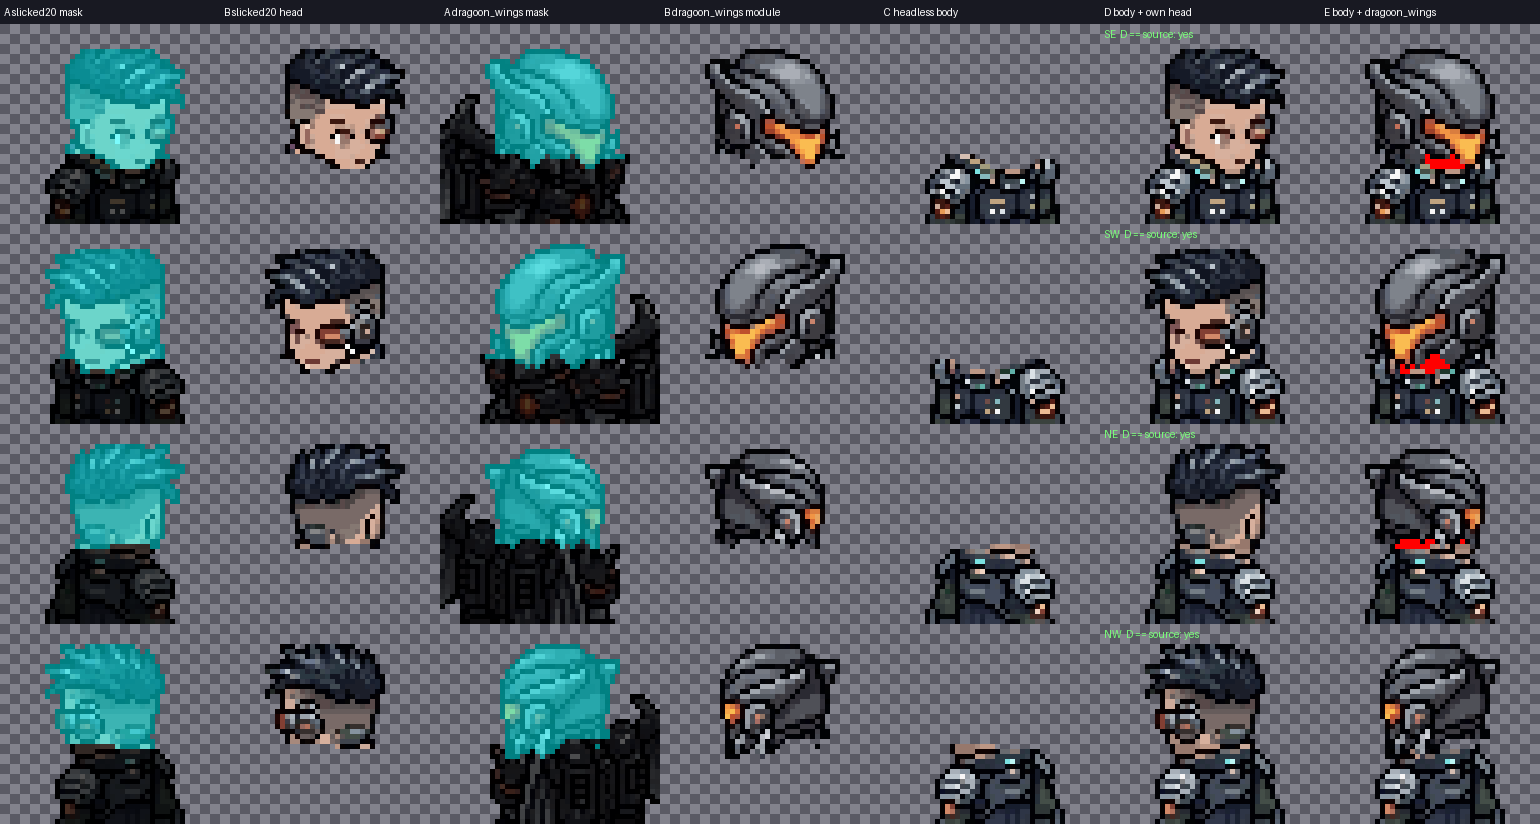
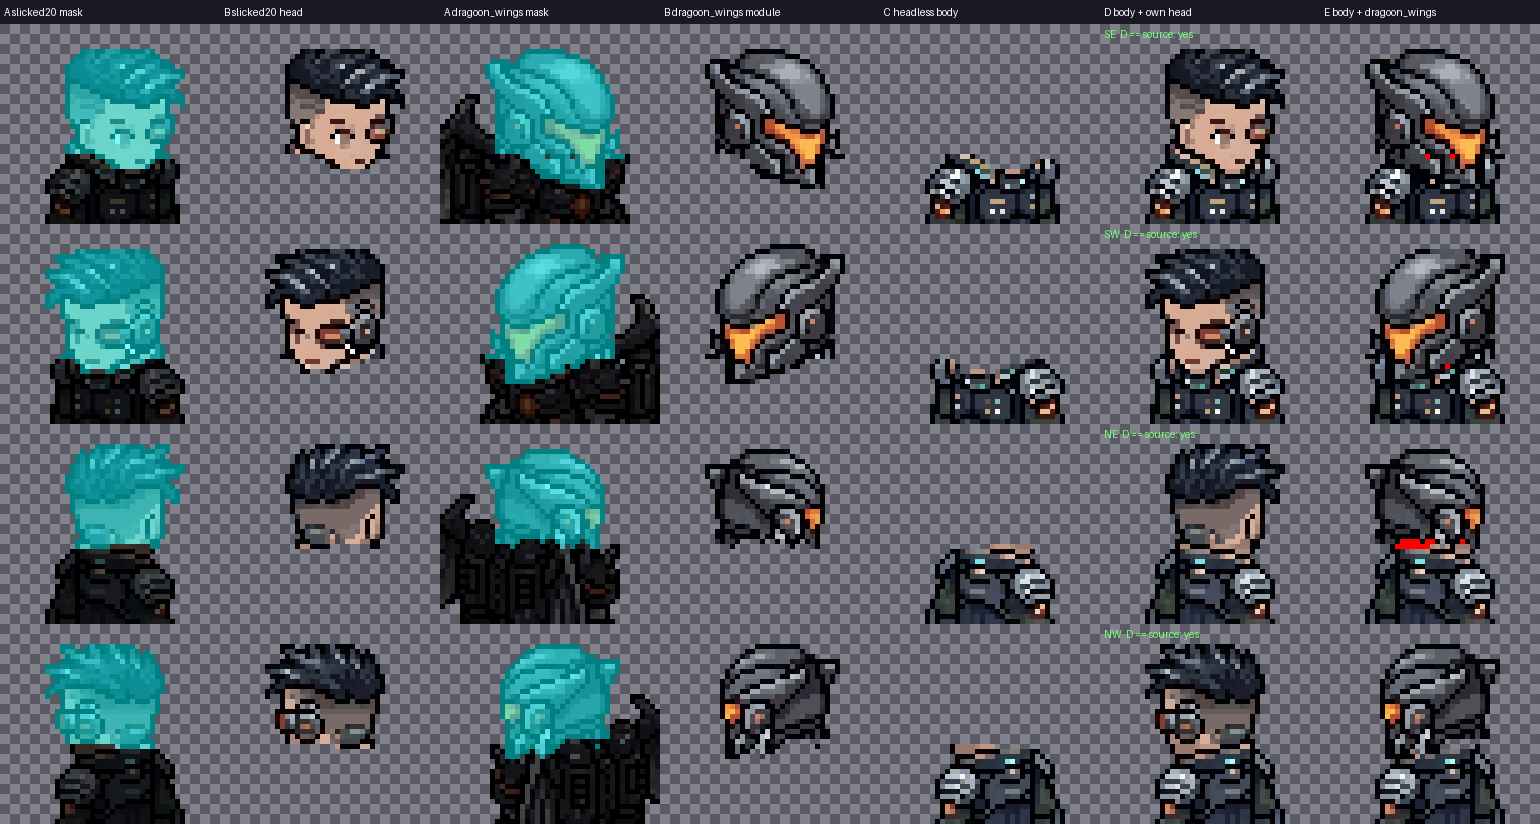
Winged helm: the jaw guard under the visor is helmet (Brian), SW and its SE mirror; E gaps 16/18 -> 2/1
Claude-Session: https://claude.ai/code/session_01WgQHfQ1KzKVhmPi89vrFCL

diff --git a/docs/WHILE_YOU_WERE_OUT.md b/docs/WHILE_YOU_WERE_OUT.md
@@ -28,7 +28,8 @@ The columns are:
 - **E:** body plus the winged module, with its own head off.
 
 **Still flagged (not filled; your call):**
-- **Gaps in E** (red): the winged helmet's rim stops short of slicked20's collar. That is 16, 18 and 14 px of air in SE, SW and NE; NW has none. Either extend the helmet art down, or let helmet modules own the neck.
+- **Jaw guard (your fix):** the plates under the visor, with their own outline, now belong to the helmet in SW and in SE (the mirror). That closed most of E's gaps.
+- **Gaps in E** (red) are now 2, 1, 14 and 0 px in SE, SW, NE and NW. The NE back view's rim still stops short of slicked20's collar: is there a neck guard at the back I should add, or should the art be extended?
 - **dragoon_wings NW:** 1 body pixel (40, 20) was only covered by the helmet.
 - **dragoon_wings registration:** the drawing sits 2-9 px away from where its stored skeleton says. Placement uses the pixels.
 
